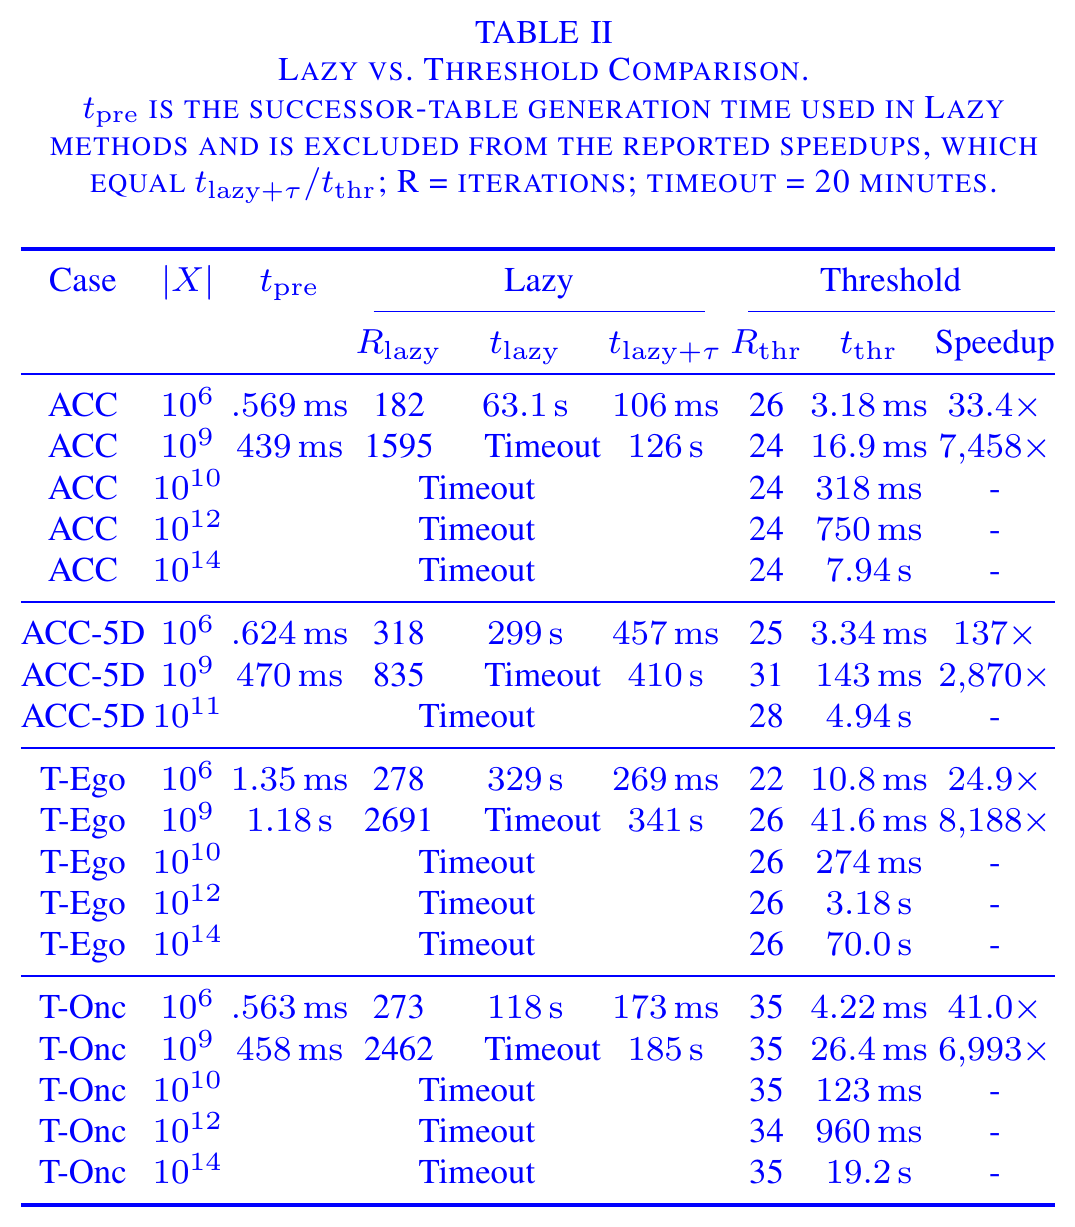
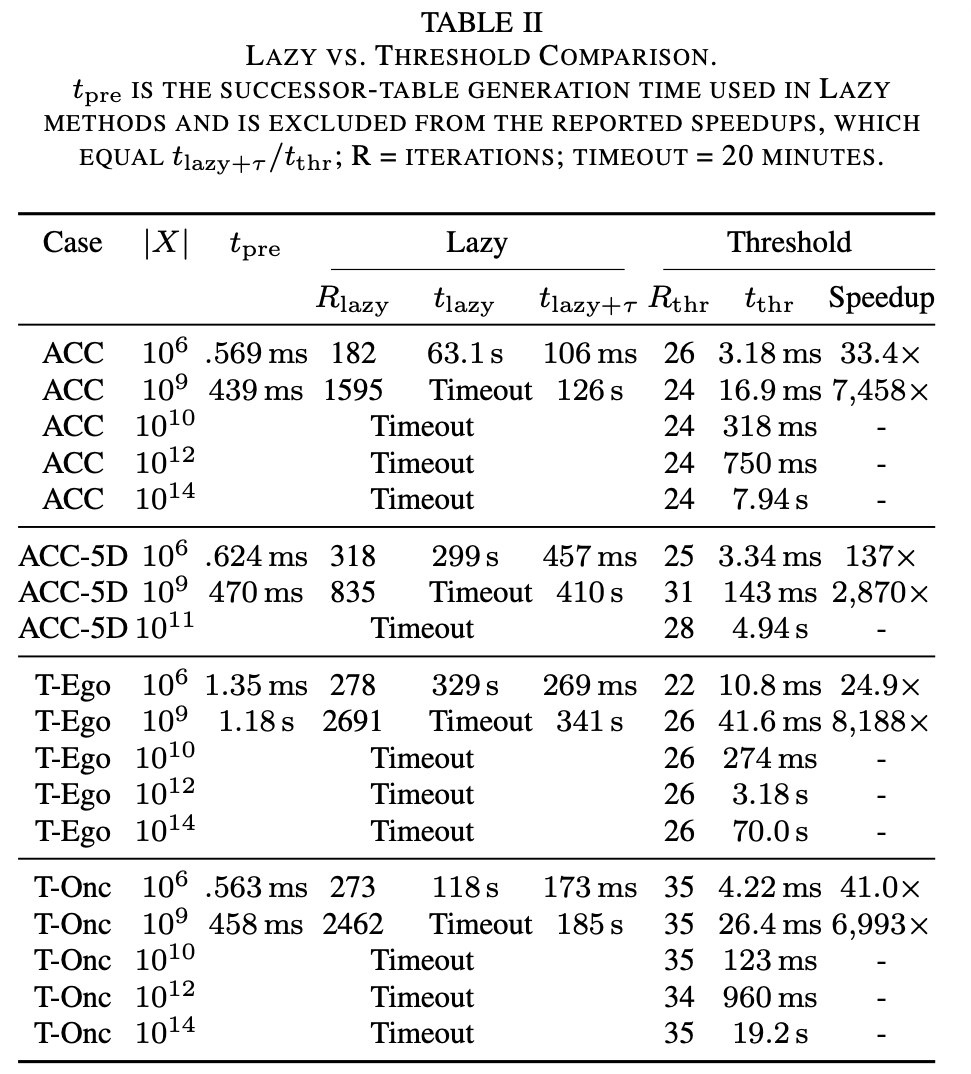
Simplify README for quick reproduction with paper table figure

Changed region(s): [[0.0, 0.0, 0.9887, 1.0]]

diff --git a/README.md b/README.md
@@ -1,16 +1,32 @@
-# pFaces-MonoSafe Threshold Experiments
+# pFaces-MonoSynth: Real-Time Synthesis of Robust Controlled Invariant Sets for Monotone Systems
 
-**Real-time invariant-set synthesis for monotone systems.** This repository
-contains the threshold-table and real-time controller experiments
-behind the paper implementation.
+Safety-critical autonomy needs formal safety certificates — controlled
+invariant sets — recomputed online as conditions change. Classical symbolic
+greatest-fixed-point (GFP) computation scales poorly with state dimension,
+so real-time synthesis is usually out of reach.
 
-The method stores one threshold height per grid column along
-`threshold_d_star`, so safe-set membership is an `O(1)` lookup with
-`O(N^(d-1))` storage instead of full-grid storage or basis scans.
+For monotone dynamics with lower-closed safety specs, the maximal robust
+controlled invariant set is itself lower-closed and fully described by its
+boundary. Lazy basis methods exploit this by tracking only the antichain
+basis, but every iteration still scans the basis for each membership test
+and regenerates neighbors sequentially, which is the main bottleneck at scale.
 
-The paper runner compares six implementations: host CDC scan, host CDC with
-threshold indexing, GPU Automatica with scan or threshold membership, bitmap
-GFP, and the proposed column-wise threshold GFP.
+This repo implements our paper's **threshold-function reformulation**: a
+lower-closed set on a `d`-dimensional grid is stored as one column height
+per key along a designated axis. One GFP step then becomes an independent
+one-dimensional binary search per column. Intuition: instead of maintaining
+a moving basis frontier, each column independently asks "how high can this
+column stay safe?" with `O(1)` table lookups without basis scans or neighbor
+generation.
+
+This method provides:
+
+* **`O(1)` lookup, `O(N^(d-1))` storage** — one integer per column instead of the full `O(N^d)` grid or per-query basis scans.
+* **Embarrassingly parallel** — all columns update independently; per-iteration work `O(C·N^(d-1)·log N)` with no sequential neighbor generation (lazy: `O(C·N^(2(d-1)))` sequential over an evolving basis).
+* **Real-time capable** — `10^9` cells in under 50 ms, `10^14` cells in under two minutes; `10^10`-cell closed-loop re-synthesis in ~62–77 ms.
+* **Thousands-fold speedups** — orders of magnitude faster than basis-based lazy synthesis at matched grids.
+* **Real-time example** — Safety-informed MPPI demo that re-synthesizes online.
+* **Parallel implementation** — A parallel OpenCL implementation using pFaces for maximum speed on GPUs.
 
 ## Preview
 
@@ -32,22 +48,22 @@ GFP, and the proposed column-wise threshold GFP.
   <video src="./figures/intersection.mp4" width="760" controls autoplay loop muted playsinline></video>
 </p>
 
-## Method
+<p align="center">
+  <img src="./figures/threshold.png" width="460" alt="Threshold-table representation" />
+  <img src="./figures/speedups.png" width="460" alt="Paper speedup table" />
+</p>
 
-<img src="./figures/threshold.png" width="460" alt="Threshold-table representation"> 
+## 1. Install pFaces First
 
-<img src="./figures/speedups.png" width="460" alt="Threshold speedups"> 
-
-## Setup
-
-Install pFaces and expose both the CLI and SDK:
+You need an external pFaces installation before anything else:
 
 ```bash
 export PFACES_SDK_ROOT=/path/to/pfaces-sdk
-export PATH=/path/to/pfaces/bin:$PATH$PATH
+export PATH=/path/to/pfaces/bin:$PATH
+pfaces -G -l   # note your GPU id, e.g. 0
 ```
 
-Ubuntu packages and Python environment:
+Then system deps and this kernel driver:
 
 ```bash
 sudo apt-get update
@@ -57,98 +73,83 @@ sudo apt-get install -y build-essential cmake git ocl-icd-opencl-dev clinfo \
 python3 -m venv .venv
 source .venv/bin/activate
 pip install -U pip numpy pandas matplotlib
-```
-
-Build the pFaces kernel driver and list the GPU id used by the pFaces CLI:
-
-```bash
-sh build.sh
-pfaces -G -l
-```
-
-## Reproduce the Paper Experiments
-
-The release runner executes the exact progressive protocol used for the revised
-paper: host CDC scan, host CDC with threshold indexing, both GPU Automatica
-variants, bitmap GFP, and threshold GFP. It covers ACC, ACC-5D, Turn-Ego, and
-Turn-Oncoming from the smallest scale upward.
-
-After installing pFaces and building the kernel driver, select the GPU reported
-by `pfaces -G -l` and run:
-
-```bash
-export PFACES_SDK_ROOT=/path/to/pfaces-sdk
-export PATH=/path/to/pfaces/bin:$PATH
-export PFACES_DEVICE=0
 
 sh build.sh
-./tools/run_paper_experiments.sh
 ```
 
-The optional first argument selects the output directory. Reuse it to resume an
-interrupted experiment:
+## 2. Try ACC in 2 Minutes (Start Here)
 
-```bash
-./tools/run_paper_experiments.sh tools/benchmark_results/paper_scale_run
-```
-
-The runner performs one measured execution with no warm-up, uses a 20-minute
-per-run timeout, and advances a method only when its preceding wall time is at
-most 60 seconds. It prepares and validates each reusable successor cache once.
-Threshold GFP and bitmap GFP evaluate dynamics inline.
-
-Every run is checkpointed. The result directory contains the complete 156-row
-plan, raw logs and timings, validation metadata, CSV summaries, and Markdown
-and LaTeX tables. Skips and timeouts remain explicit. Successful methods on a
-shared grid must agree in canonical output hash and safe-cell count.
-
-Advanced method, example, and scale selection is documented in
-[tools/README.md](tools/README.md).
-
-## Run One Synthesis
-
-Use the standalone launcher for a single configuration:
+Runs threshold synthesis on the small ACC example and renders the animation:
 
 ```bash
 ./run_threshold_synthesis.sh \
   --cfg examples/acc/acc.cfg \
   --mode threshold \
   --device-class G \
-  --device 0
+  --device 0 \
+  --video
 ```
 
-Grid resolution is controlled by `states.eta`; `threshold_d_star` selects the
-threshold dimension. See [tools/README.md](tools/README.md) for all solver and
-benchmark options.
+Output: `examples/acc/threshold_evolution.mp4` plus the evolution CSV.
+Swap `--mode threshold` for `--mode cdc` to see the classical basis version.
 
-## Real-Time Controller
+## 3. Quick Method Check
 
-The C++20 controller combines online threshold synthesis with MPPI and supports
-ACC, both single-vehicle turn phases, and the two-oncoming demonstration. Build
-and run the complete two-oncoming example with:
+A coarse threshold-vs-reference comparison on the same ACC grid:
+
+```bash
+python3 tools/run_solver_benchmark.py \
+  examples/acc/acc.cfg \
+  --methods threshold,bitmap_reference \
+  --state-eta 4,2,2 \
+  --device 0 \
+  --warmups 0 \
+  --repetitions 1 \
+  --output tools/benchmark_results/acc_smoke
+```
+
+Passing means both methods agree on the safe set; timings and logs go to
+the output directory. All solver options are in [tools/README.md](tools/README.md).
+
+## 4. Full Paper-Scale Experiments
+
+This command reproduces the paper figure runs (host CDC scan, host
+CDC-threshold, two GPU Automatica variants, bitmap GFP, threshold GFP)
+over ACC, ACC-5D, Turn-Ego and Turn-Oncoming, smallest scale first:
+
+```bash
+export PFACES_SDK_ROOT=/path/to/pfaces-sdk
+export PATH=/path/to/pfaces/bin:$PATH
+export PFACES_DEVICE=0
+
+./tools/run_paper_experiments.sh
+```
+
+Resume an interrupted run by reusing the output directory:
+
+```bash
+./tools/run_paper_experiments.sh tools/benchmark_results/paper_scale_run
+```
+
+One measured run per case, 20-minute per-run timeout; results, logs, CSVs and LaTeX tables are checkpointed per method.
+See [tools/README.md](tools/README.md) for scales and validation rules.
+
+Note: This experiment is expected to take multiple hours depending on your machine.
+
+## 5. Real-Time Controller
+
+You can also run online threshold synthesis + MPPI for the two-oncoming vehicles demo detailed in the paper:
 
 ```bash
 cd tools/rt_controller
 ./scripts/run_two_oncoming_threshold_rt.sh
 ```
 
-The script produces CSV logs, plots, and the left-turn animation. Dependencies,
-configuration fields, and shorter smoke commands are in the
-[RT controller guide](tools/rt_controller/README.md).
+Produces CSV logs, plots and the left-turn animation. See the
+[RT controller guide](tools/rt_controller/README.md) for deps and options.
 
-The controller uses finite safe-set penalties during optimization. It does not
-enforce a hard invariant constraint and does not provide a formal closed-loop
-safety guarantee.
-
-## Paper Sources
-
-The submitted manuscript, revised manuscript, rebuttal, and bibliography are in
-[`docs/`](docs/). Build the revised paper with:
-
-```bash
-cd docs
-latexmk -pdf lcss_revised.tex
-```
+Note: the controller uses finite safe-set penalties, not a hard invariant
+constraint, and provides no formal closed-loop safety guarantee.
 
 ## License
 
